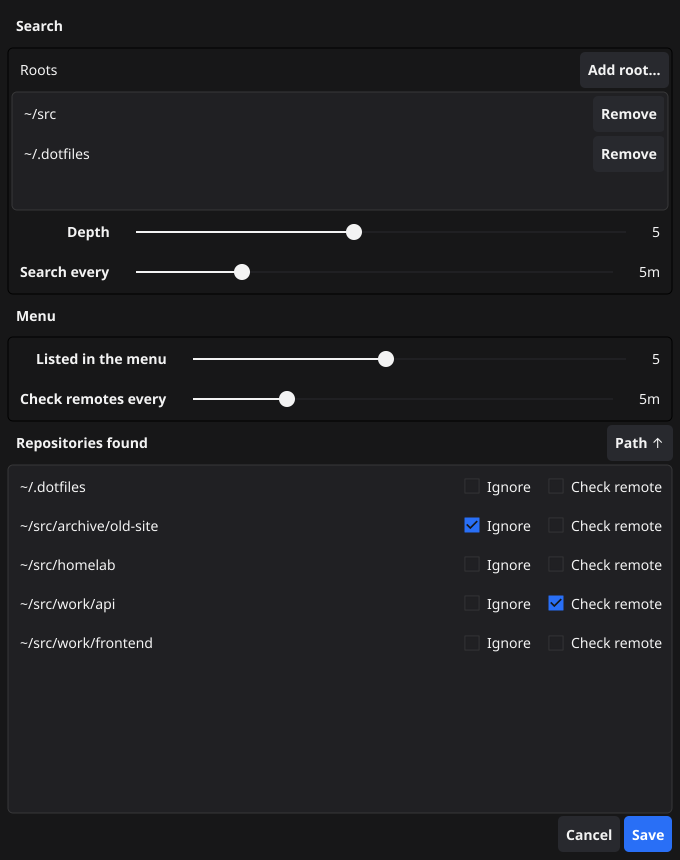
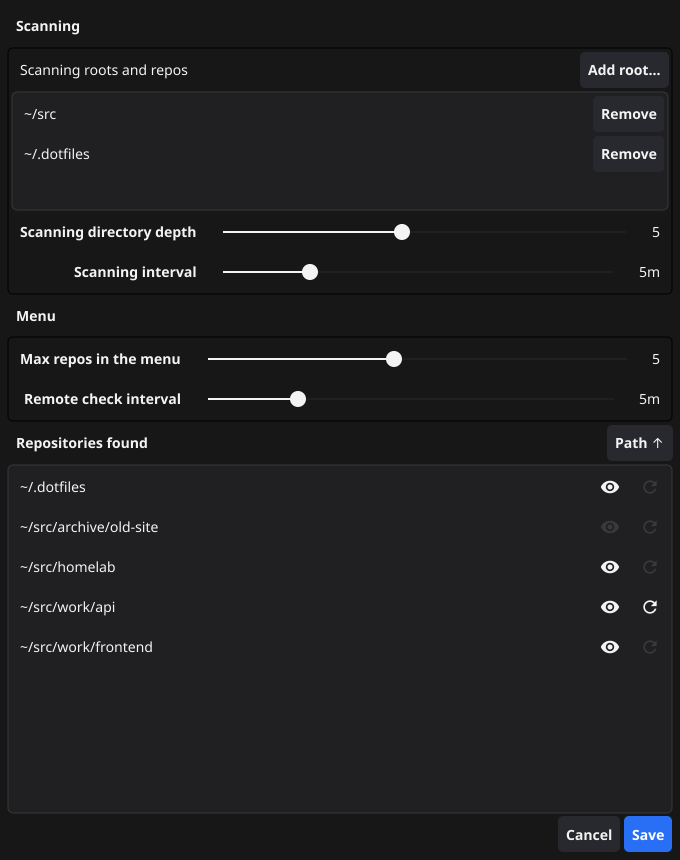
settings: Rename items, eye and refresh toggles for ignore and remote checks

diff --git a/src/settings.go b/src/settings.go
@@ -98,10 +98,10 @@ func (t *tray) showSettings() {
 			slices.Reverse(found)
 		}
 		for _, path := range found {
-			ignore := widget.NewCheck("Ignore", toggle(&d.Ignore, path))
-			ignore.SetChecked(slices.Contains(d.Ignore, path))
-			remote := widget.NewCheck("Check remote", toggle(&d.CheckRemote, path))
-			remote.SetChecked(slices.Contains(d.CheckRemote, path))
+			// The eye is lit while the repo is listed, the refresh icon while its
+			// remote is checked
+			ignore := iconToggle(theme.VisibilityIcon(), !slices.Contains(d.Ignore, path), func(on bool) { toggle(&d.Ignore, path)(!on) })
+			remote := iconToggle(theme.ViewRefreshIcon(), slices.Contains(d.CheckRemote, path), toggle(&d.CheckRemote, path))
 			rows.Add(container.NewBorder(nil, nil, nil, container.NewHBox(ignore, remote), widget.NewLabel(tilde(path))))
 		}
 		if len(rows.Objects) == 0 {
@@ -116,17 +116,17 @@ func (t *tray) showSettings() {
 
 	rootsList := container.NewVScroll(roots)
 	rootsList.SetMinSize(fyne.NewSize(0, 110))
-	search := group("Search", container.NewVBox(
-		container.NewBorder(nil, nil, widget.NewLabel("Roots"), addRoot),
+	search := group("Scanning", container.NewVBox(
+		container.NewBorder(nil, nil, widget.NewLabel("Scanning roots and repos"), addRoot),
 		sunken(rootsList),
 		widget.NewForm(
-			widget.NewFormItem("Depth", depth),
-			widget.NewFormItem("Search every", scanEvery),
+			widget.NewFormItem("Scanning directory depth", depth),
+			widget.NewFormItem("Scanning interval", scanEvery),
 		),
 	))
 	menu := group("Menu", widget.NewForm(
-		widget.NewFormItem("Listed in the menu", max),
-		widget.NewFormItem("Check remotes every", remoteEvery),
+		widget.NewFormItem("Max repos in the menu", max),
+		widget.NewFormItem("Remote check interval", remoteEvery),
 	))
 	// The sunken list is frame enough
 	reposTitle := widget.NewLabelWithStyle("Repositories found", fyne.TextAlignLeading, fyne.TextStyle{Bold: true})
@@ -165,6 +165,26 @@ func group(title string, content fyne.CanvasObject) fyne.CanvasObject {
 		widget.NewLabelWithStyle(title, fyne.TextAlignLeading, fyne.TextStyle{Bold: true}), nil, nil, nil,
 		container.NewStack(frame, container.NewPadded(content)),
 	)
+}
+
+// iconToggle is a flat button showing icon lit when on and greyed out when off.
+func iconToggle(icon fyne.Resource, on bool, changed func(on bool)) *widget.Button {
+	b := widget.NewButtonWithIcon("", nil, nil)
+	b.Importance = widget.LowImportance
+	show := func() {
+		if on {
+			b.SetIcon(icon)
+		} else {
+			b.SetIcon(theme.NewDisabledResource(icon))
+		}
+	}
+	b.OnTapped = func() {
+		on = !on
+		show()
+		changed(on)
+	}
+	show()
+	return b
 }
 
 // sunken puts content on the input background with a border, the way lists

diff --git a/README.md b/README.md
@@ -30,9 +30,10 @@ branch has diverged, or the last attempt failed, the click opens a terminal in
 the repository instead, so you can rebase or merge yourself.
 
 unpushed never fetches on its own, so a down arrow appears once you have
-fetched. For repositories you mark with "Check remote" it asks the remote
-directly with `git ls-remote`, which writes nothing to the repository. When the
-remote has commits you haven't fetched, the count shows as `↓?`.
+fetched. For repositories you mark with the refresh icon in the settings, it
+asks the remote directly with `git ls-remote`, which writes nothing to the
+repository. When the remote has commits you haven't fetched, the count shows
+as `↓?`.
 
 "Settings…" in the menu opens the settings window:
 
